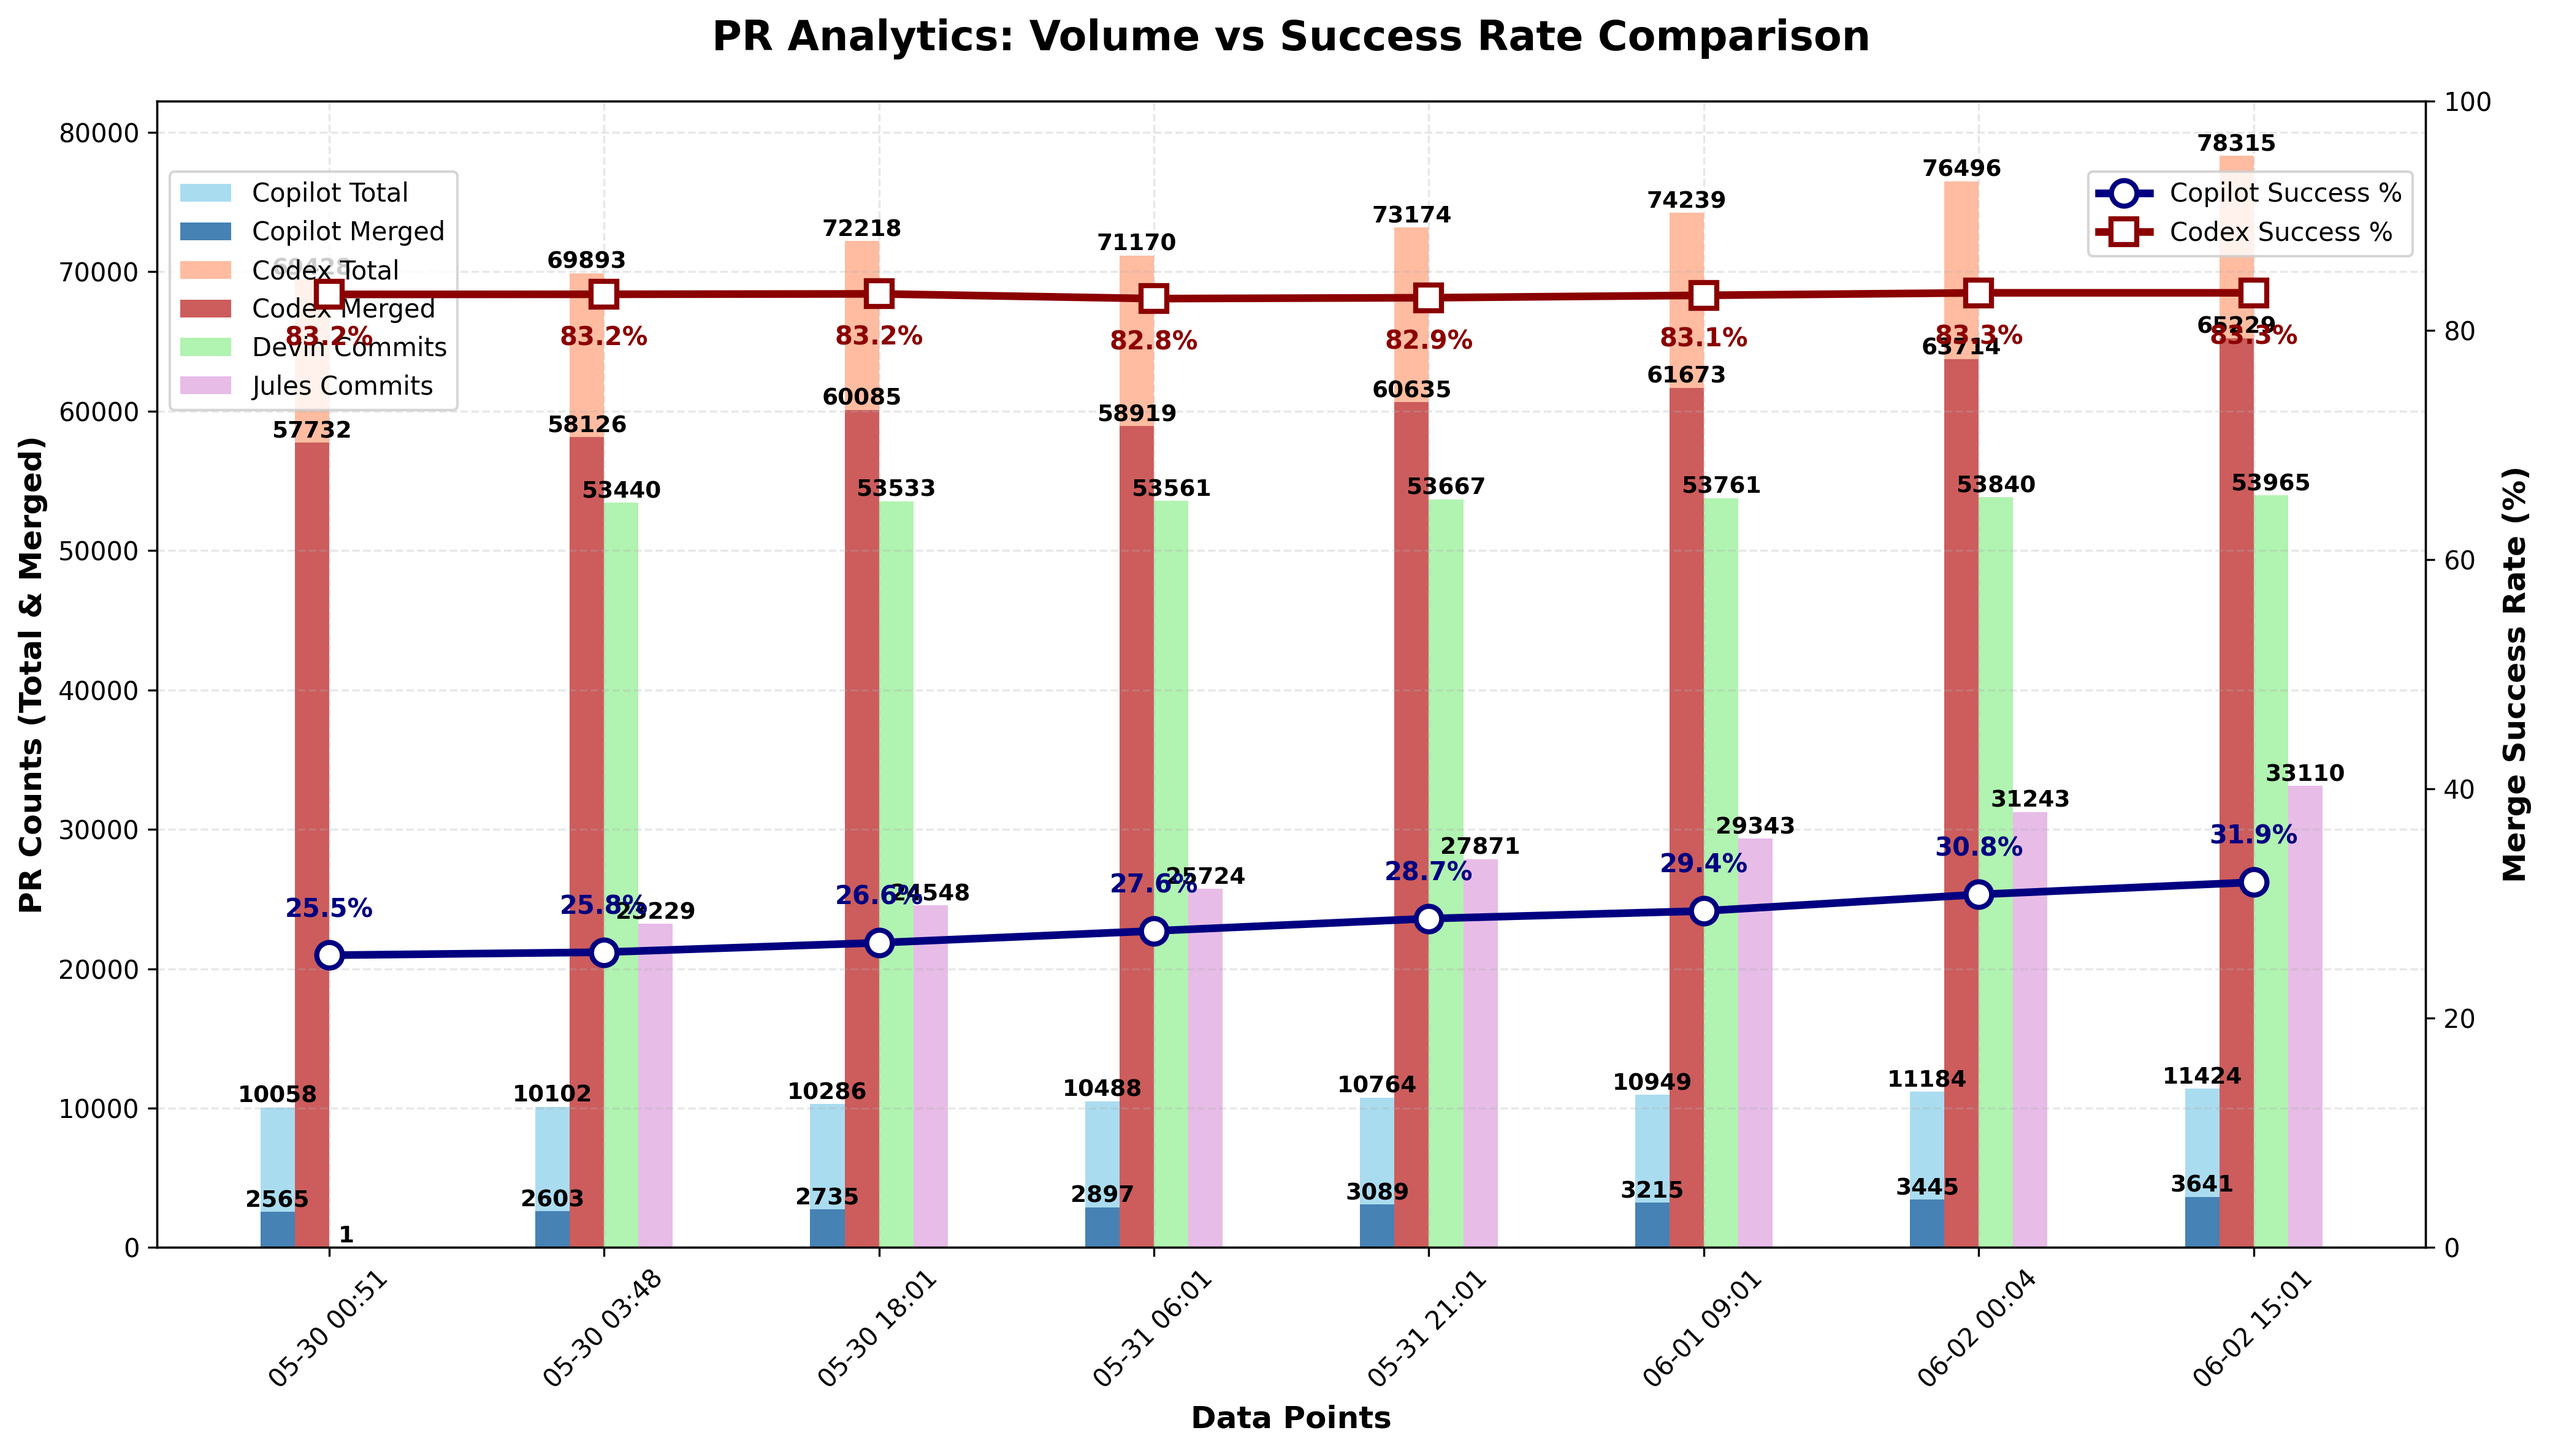
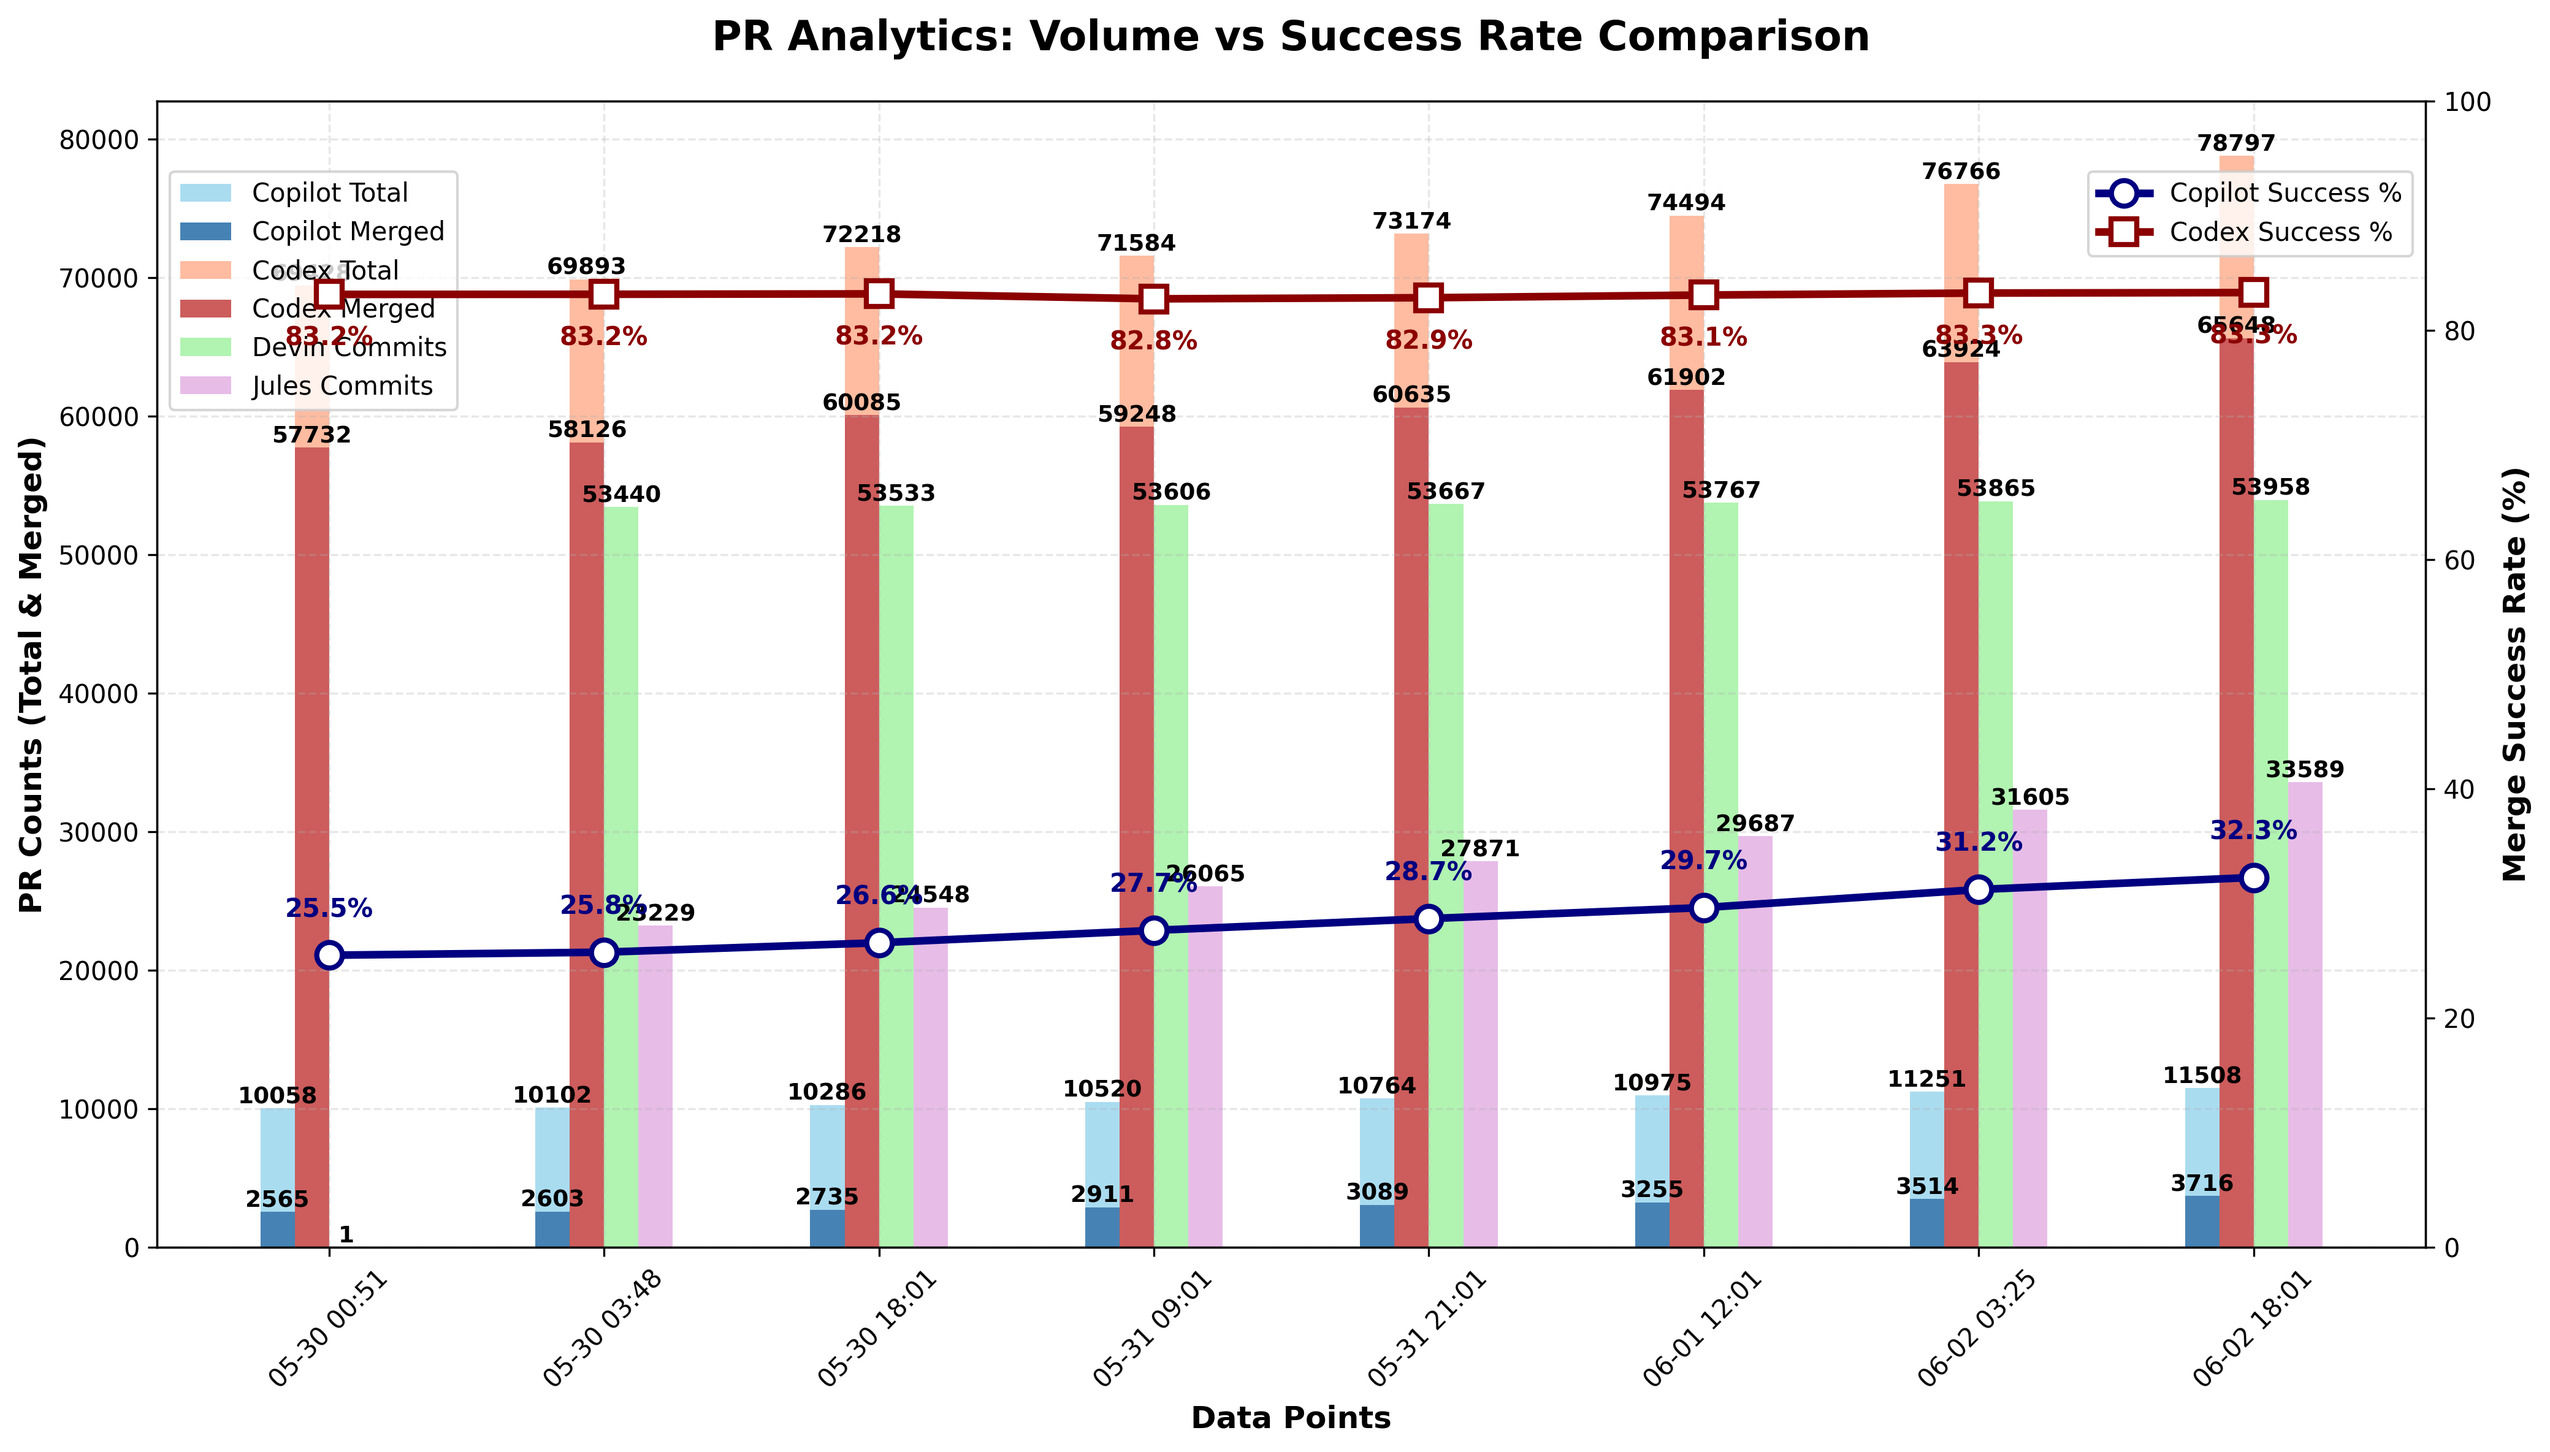
chore: update PR‑approval chart

diff --git a/docs/index.html b/docs/index.html
@@ -80,6 +80,7 @@
                         <td>N/A</td>
                         <td>N/A</td>
                         <td>N/A</td>
+                        <td>N/A</td>
                     </tr>
                     <tr>
                         <td>Codex</td>
@@ -118,27 +119,28 @@
                         <td>N/A</td>
                         <td>N/A</td>
                         <td>N/A</td>
+                        <td>N/A</td>
                     </tr>
                 <tr>
                         <td>Devin</td>
                         <td>N/A</td>
                         <td>N/A</td>
                         <td>N/A</td>
-                        <td>53,965</td>
+                        <td>53,958</td>
                     </tr>
                     <tr>
                         <td>Jules</td>
                         <td>N/A</td>
                         <td>N/A</td>
                         <td>N/A</td>
-                        <td>33,110</td>
+                        <td>33,589</td>
                     </tr>
                     </tbody>
             </table>
         </section>
 
         <footer>
-            <p>Last updated: <span id="last-updated">June 02, 2025 15:01 UTC</span></p>
+            <p>Last updated: <span id="last-updated">June 02, 2025 18:01 UTC</span></p>
             <p><a href="https://github.com/aavetis/ai-pr-watcher">View on GitHub</a></p>
         </footer>
     </div>

diff --git a/README.md b/README.md
@@ -19,7 +19,7 @@ Explore the GitHub search queries used:
 
 | Service | Total PRs | Merged PRs | Merge Rate | Total Commits |
 | ------- | --------- | ---------- | ---------- | ------------- |
-| Copilot | 11,424 | 3,641 | 31.87% | N/A           |
-| Codex   | 78,315 | 65,229 | 83.29% | N/A           |
-| Devin   | N/A       | N/A        | N/A        | 53,965 |
-| Jules   | N/A       | N/A        | N/A        | 33,110 |
+| Copilot | 11,508 | 3,716 | 32.29% | N/A           |
+| Codex   | 78,797 | 65,648 | 83.31% | N/A           |
+| Devin   | N/A       | N/A        | N/A        | 53,958 |
+| Jules   | N/A       | N/A        | N/A        | 33,589 |
